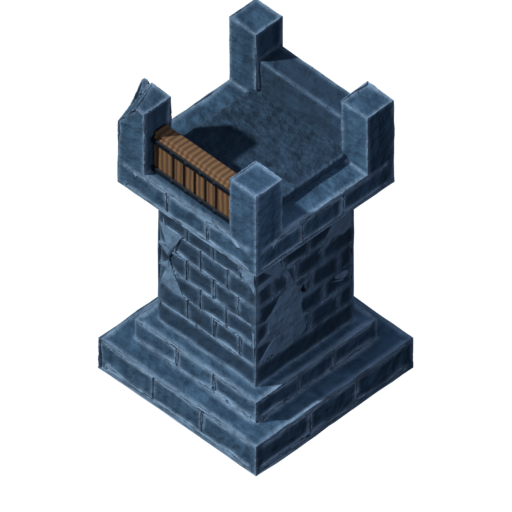
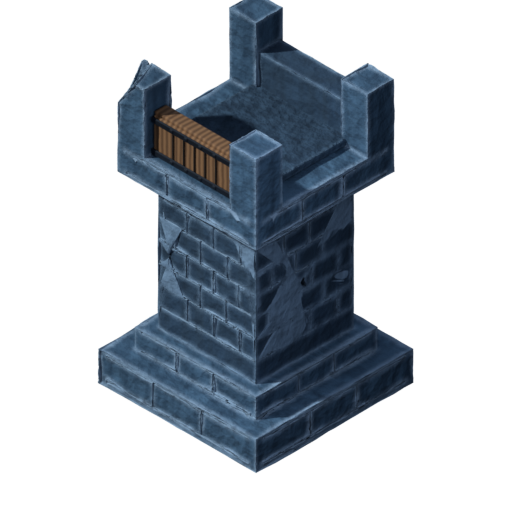
Units: add Codex Sheet library (cohesive 8-dir restyle) + ruinwall rook
New "Codex Sheet" pixel-art library: each unit's whole 8-direction rotation drawn
in ONE Codex pass from the real Blender angles, anchored to the concept-art style
— so frames stay consistent and the look matches the north-star. Rook uses the
ruinwall design (rendered 8 angles via render_versions.py -> candidate-ruinwall).

Per the multimodal rotation review: rook + pawn ship-grade; knight + bishop usable
(minor feature touch-ups); king (cross stays frontal — doesn't turn) and queen
(crown high-freq tangle) flagged for rerun. All wired as speculative for in-app
comparison.

diff --git a/frontend/src/ui/unitCatalog.ts b/frontend/src/ui/unitCatalog.ts
@@ -229,8 +229,11 @@ const productionUnits: UnitAsset[] = [
 // a `method` + `speculative` flag so they can be filtered and culled later. Navy palette
 // only (factionMode 'fixed') until a library is promoted to production. Sprites are framed
 // onto the same 512 canvas as the Blender source, so the per-piece footprints below seat them.
-export type PixelLibraryKey = 'codexfilter' | 'filter2' | 'filter3';
+export type PixelLibraryKey = 'codexsheet' | 'codexfilter' | 'filter2' | 'filter3';
 export const PIXEL_LIBRARIES: { key: PixelLibraryKey; label: string; dirs: Direction[] }[] = [
+  // Codex Sheet: the whole 8-direction rotation drawn in ONE cohesive Codex pass from the
+  // real Blender angles, anchored to the concept-art style (rook uses the ruinwall design).
+  { key: 'codexsheet', label: 'Codex Sheet', dirs: rookDirections },
   { key: 'codexfilter', label: 'Codex→Filter', dirs: rookDirections },
   { key: 'filter2', label: 'Filter ×2', dirs: rookDirections },
   { key: 'filter3', label: 'Filter ×3', dirs: rookDirections },